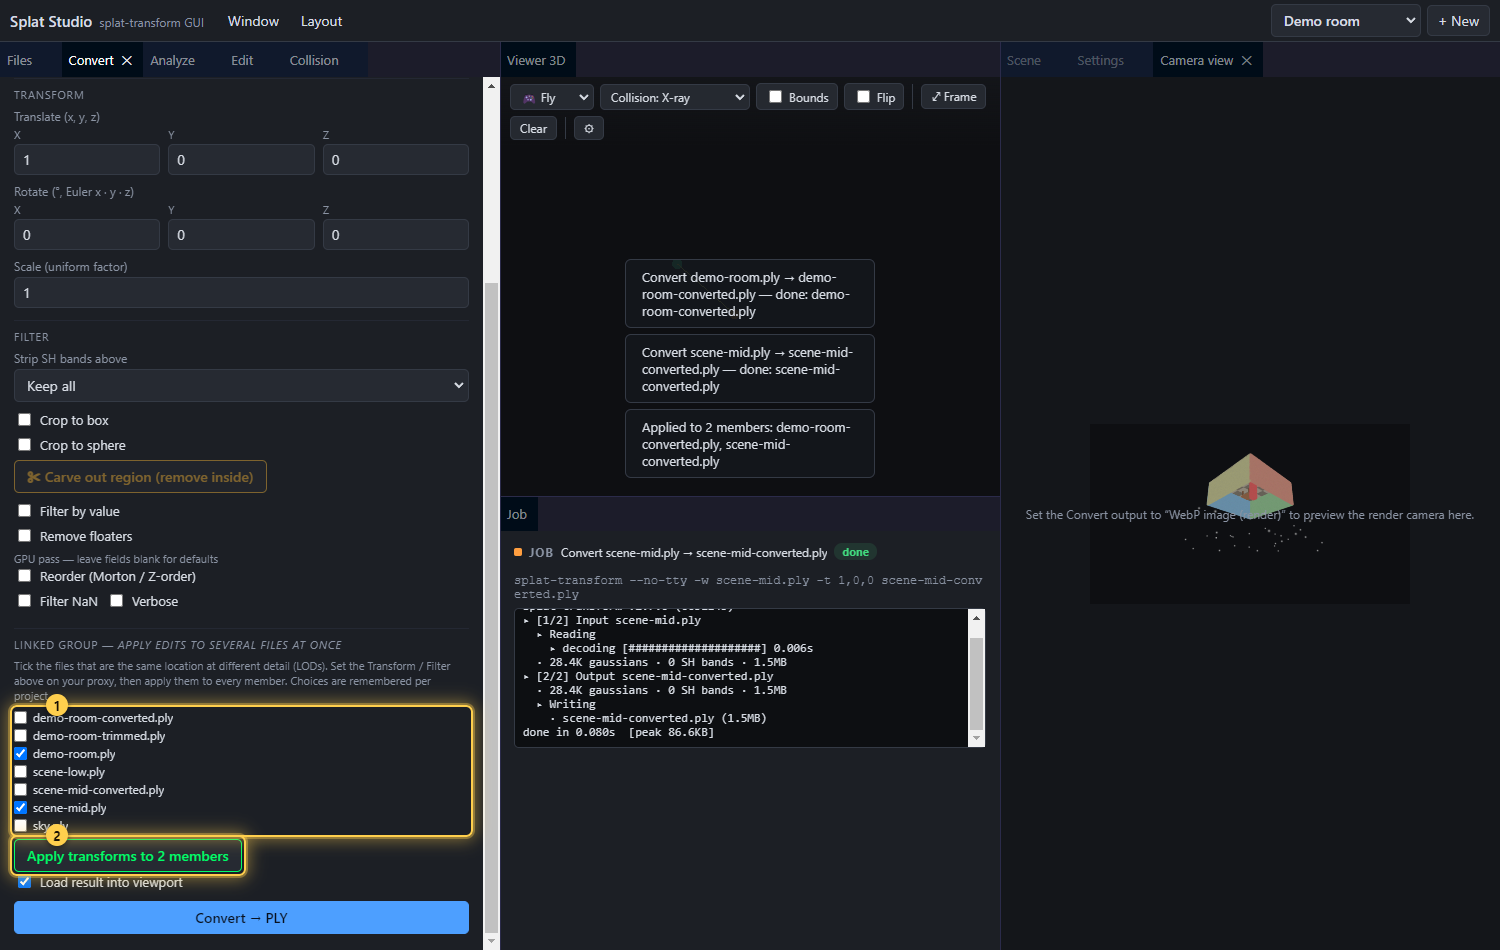
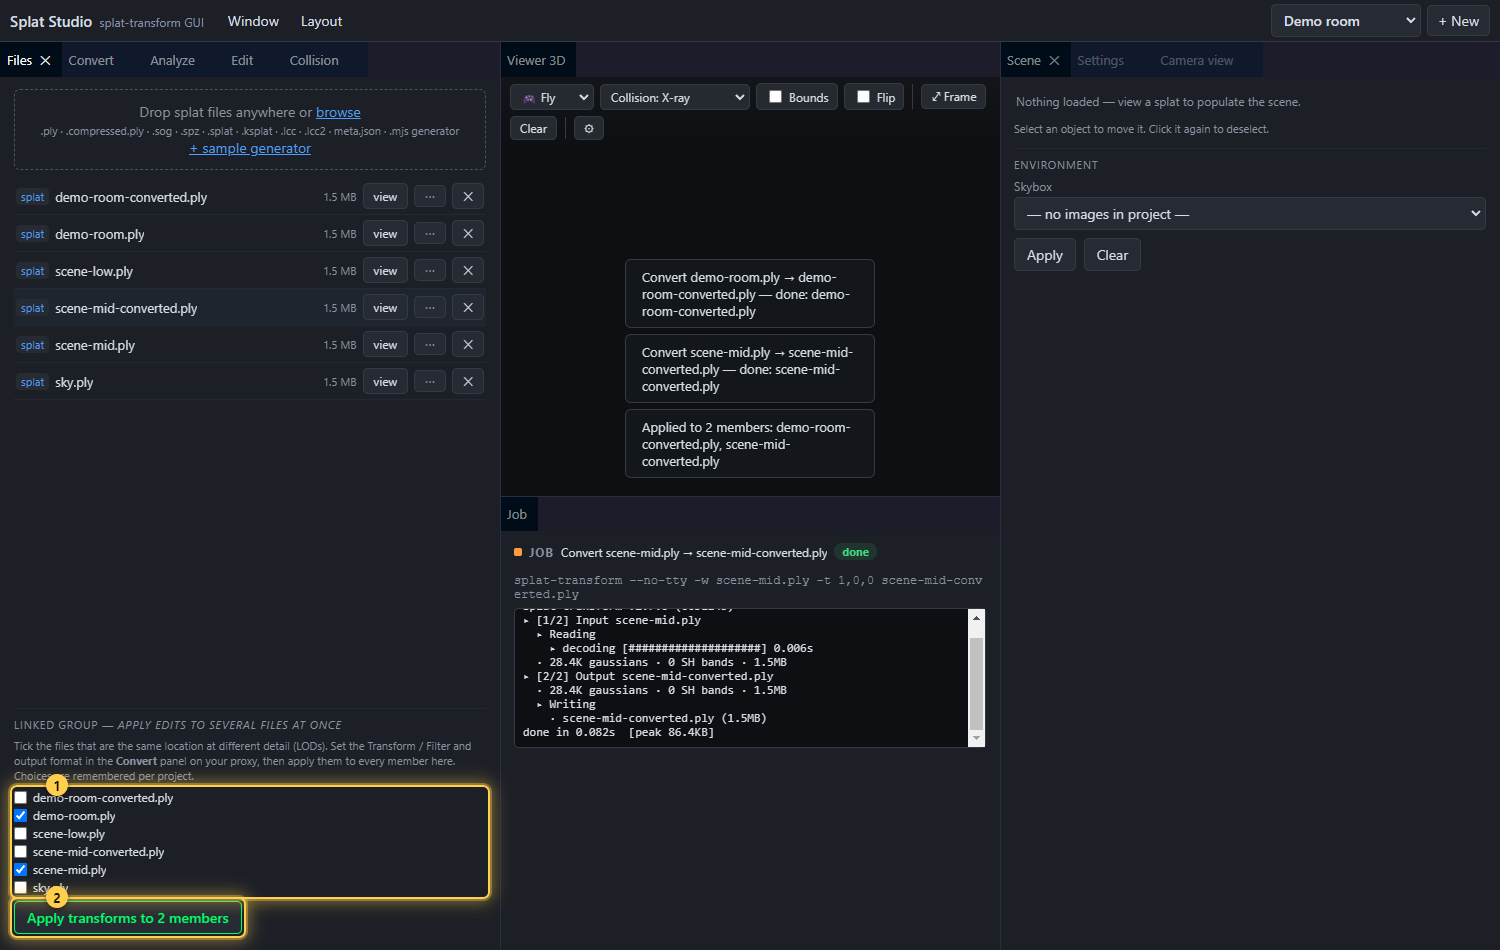
Linked group: move to the Files panel + fixes
Placement (per review feedback): the linked group is about grouping files, so its
member list + apply now live at the bottom of the Files panel (no longer gated by
the Convert output format). Transforms are still set in Convert; a hint points
there. Apply now rejects streamed-LOD / WebP / CSV (they don't carry the edits),
and claims the button before the pre-loop stats await (was a jobBusy re-entrancy
gap) with a finally that restores it.

Review fixes (server): GET /api/groups returns 500 (not 400) on a corrupt sidecar;
POST validates the proxy path like members. e2e: renamed the convert-determinism
check to say what it verifies.

diff --git a/client/src/main.ts b/client/src/main.ts
@@ -700,8 +700,6 @@ const updateConvertRows = () => {
     if (!isLod) $('lod-autotune-plan').classList.add('hidden');
     $('html-rows').classList.toggle('hidden', f !== 'html');
     $('webp-rows').classList.toggle('hidden', !isWebp);
-    // linked group fans out transform/filter ops, which LOD bakes / WebP / CSV don't carry
-    $('group-actions').classList.toggle('hidden', isLod || isWebp || f === 'csv');
     if (isLod && combine && lodFileRows.children.length === 0) addLodRow();
     if (!convertRun.disabled) convertRun.textContent = RUN_LABELS[f] ?? 'Convert';
 };
@@ -1286,9 +1284,13 @@ groupApplyBtn.onclick = async () => {
     if (jobBusy) return showToast('A job is running — wait for it to finish', true);
     if (!panelValid('panel-convert')) return;
     const format = convertFormat.value;
+    if (['lod', 'webp', 'csv'].includes(format)) {
+        return showToast('Pick a splat output format in the Convert panel (PLY / SOG / …) — streamed-LOD, WebP and CSV don’t carry these per-gaussian edits', true);
+    }
     groupWarn.classList.add('hidden');
-    // frame-compat guard: members of one location should have similar extents
+    groupApplyBtn.disabled = true; // claim the button now — the stats await below is a re-entrancy gap
     try {
+        // frame-compat guard: members of one location should have similar extents
         const stats = (await Promise.all(members.map((m) => api.getStats(m).catch(() => null)))).filter(Boolean);
         const sizes = stats.map((s) => Math.max(...s!.extents.filter(Number.isFinite))).filter(Number.isFinite);
         if (sizes.length > 1) {
@@ -1299,22 +1301,23 @@ groupApplyBtn.onclick = async () => {
                 if (!confirm('These members have quite different extents and may not be the same location. Apply the transforms to all of them anyway?')) return;
             }
         }
-    } catch { /* stats are best-effort */ }
-    // fan out one edited copy per member, sequentially (jobBusy + runJob serialize)
-    const options = {
-        ...transformFilterOptions(),
-        filterNaN: $<HTMLInputElement>('convert-filter-nan').checked,
-        decimate: $<HTMLInputElement>('convert-decimate').value.trim(),
-        device: $<HTMLSelectElement>('convert-device').value
-    };
-    const outputs: string[] = [];
-    for (const member of members) {
-        const job = await runJob(() => api.startConvert({ input: member, format, options }), groupApplyBtn, false);
-        if (!job || job.status !== 'done') { showToast(`Stopped — ${member.split('/').pop()} did not finish`, true); break; }
-        outputs.push(...job.outputs);
+        // fan out one edited copy per member, sequentially (jobBusy + runJob serialize)
+        const options = {
+            ...transformFilterOptions(),
+            filterNaN: $<HTMLInputElement>('convert-filter-nan').checked,
+            decimate: $<HTMLInputElement>('convert-decimate').value.trim(),
+            device: $<HTMLSelectElement>('convert-device').value
+        };
+        const outputs: string[] = [];
+        for (const member of members) {
+            const job = await runJob(() => api.startConvert({ input: member, format, options }), groupApplyBtn, false);
+            if (!job || job.status !== 'done') { showToast(`Stopped — ${baseLabel(member)} did not finish`, true); break; }
+            outputs.push(...job.outputs);
+        }
+        if (outputs.length) showToast(`Applied to ${outputs.length} member${outputs.length > 1 ? 's' : ''}: ${outputs.join(', ')}`);
+    } finally {
+        updateGroupApply(); // restore the enabled state + count label
     }
-    updateGroupApply();
-    if (outputs.length) showToast(`Applied to ${outputs.length} member${outputs.length > 1 ? 's' : ''}: ${outputs.join(', ')}`);
 };
 
 // ---------- analyze panel + persistent stats card ----------

diff --git a/client/index.html b/client/index.html
@@ -35,6 +35,14 @@
                         title="Drop a ready-to-run .mjs generator (gen-grid.mjs) into this project, then pick it as a Convert input and pass params like width=16,height=16,scale=4 (.mjs generator input + -p/--params)">+ sample generator</button>
                 </div>
                 <ul id="file-list" class="file-list"></ul>
+
+                <div id="group-actions" title="Group the files that are the same location at different detail (its LODs), then apply a proxy's edits to all of them at once.">
+                    <div class="group">Linked group <em>— apply edits to several files at once</em></div>
+                    <span class="hint">Tick the files that are the same location at different detail (LODs). Set the Transform / Filter and output format in the <strong>Convert</strong> panel on your proxy, then apply them to every member here. Choices are remembered per project.</span>
+                    <div id="group-members" class="group-members"></div>
+                    <div class="hint hidden" id="group-warn"></div>
+                    <button id="group-apply" title="Run the current Convert Transform / Filter settings on every ticked member, writing an edited copy of each (sequential jobs, current output format)">Apply transforms to members</button>
+                </div>
             </section>
 
             <section class="panel" id="panel-convert">
@@ -289,13 +297,6 @@
                 <div class="field-row">
                     <label class="check" title="Drop gaussians containing NaN/Infinity values (-N/--filter-nan)"><input type="checkbox" id="convert-filter-nan" /> Filter NaN</label>
                     <label class="check" title="Verbose CLI diagnostics + peak memory in the Job log (--verbose --mem)"><input type="checkbox" id="convert-verbose" /> Verbose</label>
-                </div>
-                <div id="group-actions" class="hidden" title="Edit on a proxy, then apply the same Transform / Filter to every LOD of the same location.">
-                    <div class="group">Linked group <em>— apply edits to several files at once</em></div>
-                    <span class="hint">Tick the files that are the same location at different detail (LODs). Set the Transform / Filter above on your proxy, then apply them to every member. Choices are remembered per project.</span>
-                    <div id="group-members" class="group-members"></div>
-                    <div class="hint hidden" id="group-warn"></div>
-                    <button id="group-apply" title="Run the current Transform / Filter settings on every ticked member, writing an edited copy of each (sequential jobs, current output format)">Apply transforms to members</button>
                 </div>
                 <label class="check" title="When the conversion finishes, load the result into the 3D viewport (viewable formats only)"><input type="checkbox" id="convert-autoload" checked /> Load result into viewport</label>
                 <button id="convert-run" class="primary" title="Run the conversion as a background job — the exact CLI command appears in the Job panel">Convert</button>

diff --git a/client/src/style.css b/client/src/style.css
@@ -300,7 +300,8 @@ body.dropping #viewport::after {
 /* Files is a dedicated dock panel — lay it out as a column so the list grows to
    fill the panel (scrolling internally) instead of leaving the area below empty. */
 #panel-files { display: flex; flex-direction: column; }
-#panel-files .file-list { flex: 1 1 auto; min-height: 0; max-height: none; }
+#panel-files .file-list { flex: 1 1 auto; min-height: 80px; max-height: none; }
+#panel-files #group-actions { flex-shrink: 0; } /* linked group pinned below the file list */
 
 /* scene hierarchy */
 .scene-list { list-style: none; margin: 0 0 8px; padding: 0; }

diff --git a/docs/USER_GUIDE.md b/docs/USER_GUIDE.md
@@ -94,6 +94,16 @@ To add splats:
 4. **+ sample generator** drops a ready-to-run `.mjs` scene generator into the
    project so you can try the generator workflow immediately.
 
+> **Linked group — edit a proxy, apply to every LOD:** the **Linked group** section at
+> the bottom of the Files panel lets you tick the files that are the same location at
+> different detail (its LODs). Set the Transform / Filter and a splat output format in
+> the **Convert** panel on your proxy, then **Apply transforms to members** — every
+> ticked member is converted in turn with the same edits, so the whole ladder stays
+> consistent. Choices are remembered per project; a heads-up appears if the members'
+> extents differ a lot (they may not be the same location).
+>
+> ![Linked group](screenshots/linked-group.png)
+
 ---
 
 ## Convert: formats & rendering
@@ -172,19 +182,6 @@ pipeline to the splat before it's written (they don't apply to streamed-LOD bake
 - **Filter NaN** — drop non-finite gaussians (`-N`).
 - **Decimate to** — reduce the gaussian count to a number or percentage (`-F`).
 - **Verbose** — print memory/timing diagnostics in the job log.
-
-> **Linked group — edit a proxy, apply to every LOD:** when the output is a splat
-> format (PLY / compressed / SOG), a **Linked group** section lets you tick the files
-> that are the same location at different detail (its LODs), then **apply the current
-> Transform / Filter settings to every member at once**. Edit on a lightweight proxy
-> and the whole ladder stays consistent. Choices are remembered per project.
->
-> ![Linked group](screenshots/linked-group.png)
->
-> Each member is converted in turn to the chosen format, producing an edited copy. A
-> heads-up appears if the members' extents differ a lot (they may not be the same
-> location). Streamed-LOD / WebP / CSV are excluded — they don't carry these
-> per-gaussian transforms.
 
 ### WebP image render
 